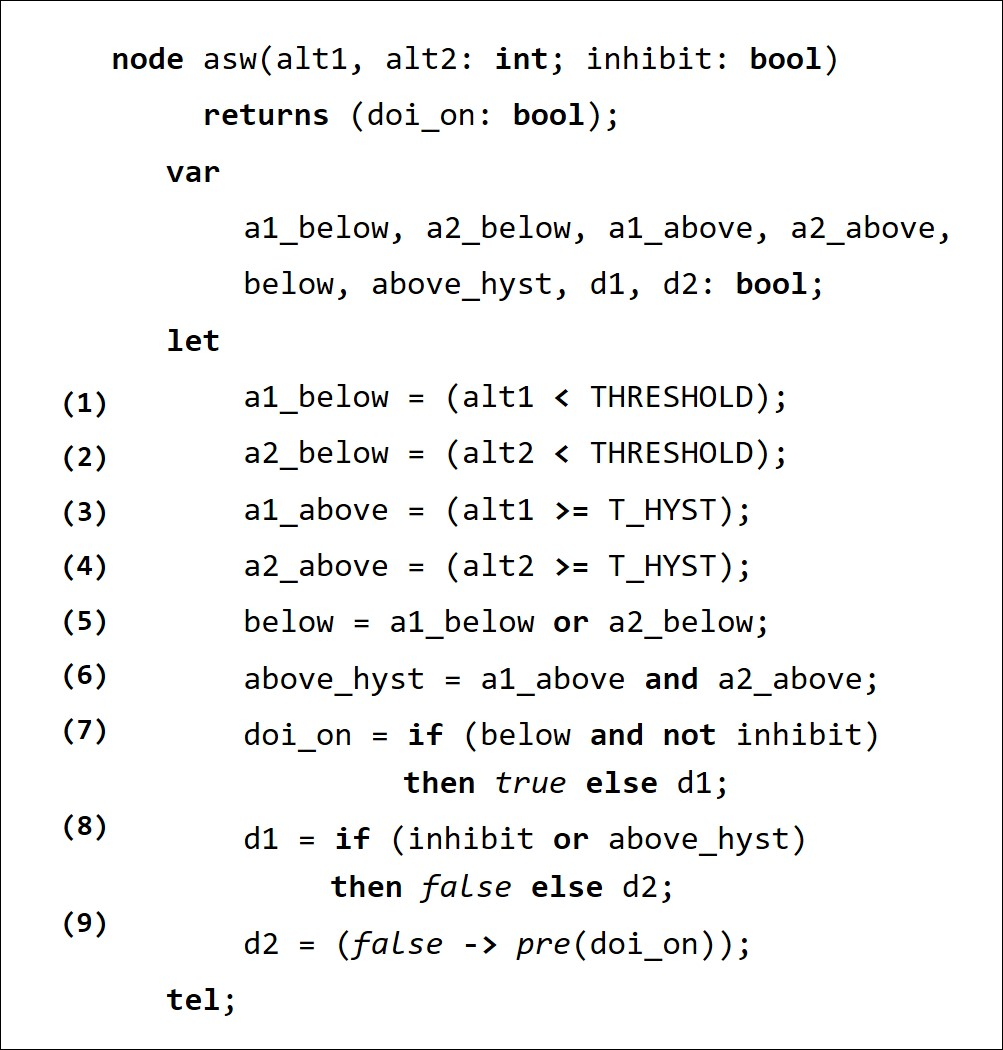
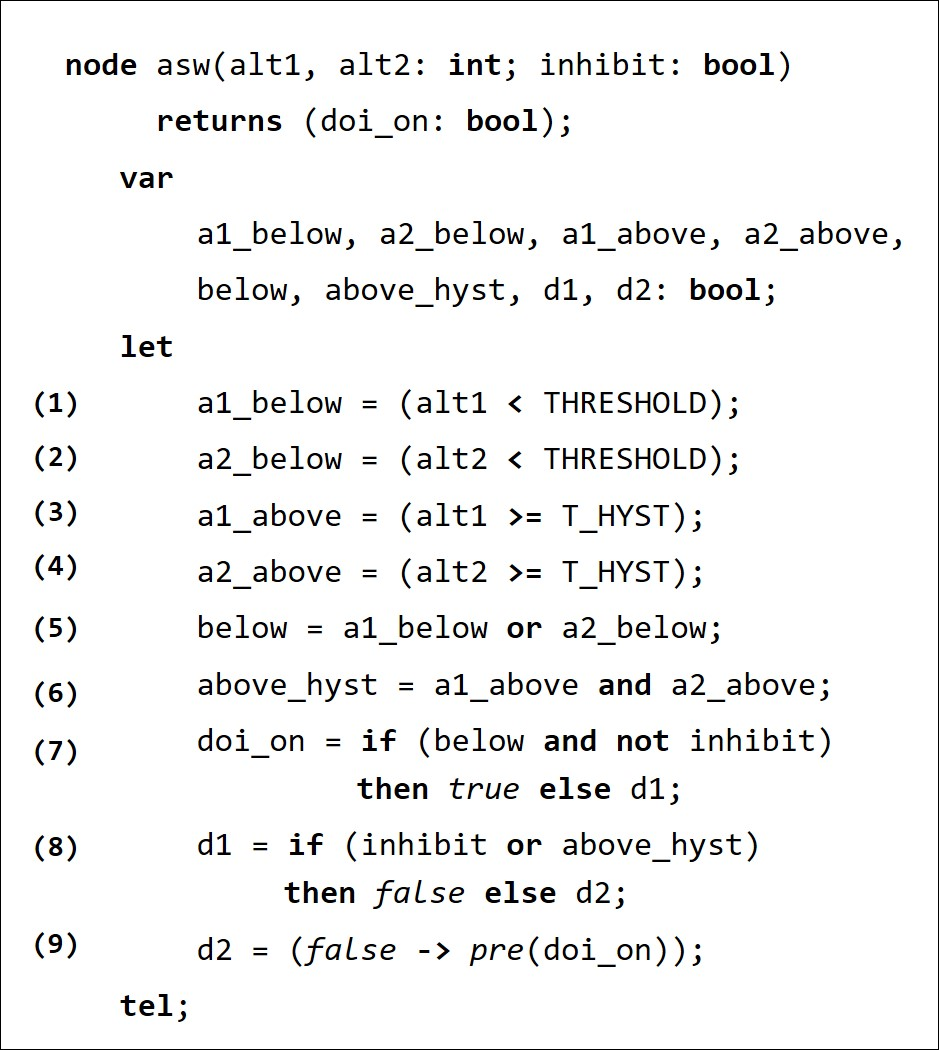
edit pics

diff --git a/completeness/completeness_TEX/example.tex b/completeness/completeness_TEX/example.tex
@@ -11,35 +11,14 @@
 %\end{figure*}
 
 %% We put the image here so it shows up side-by-side with fig:ex-after
-\begin{figure}[t]
+\begin{figure}
 \centering
-\includegraphics[width=0.8\columnwidth]{figs/code.jpg}
-%{\smaller
-%\begin{verbatim}
-%node asw(alt1, alt2: int; inhibit: bool)
-%        returns (doi_on: bool);
-%var
-%   a1_below, a2_below, a1_above, a2_above,
-%   below, above_hyst, d1, d2: bool;
-%let
-%   a1_below = (alt1 < THRESHOLD);        // (1)
-%   a2_below = (alt2 < THRESHOLD);        // (2)
-%   a1_above = (alt1 >= T_HYST);          // (3)
-%   a2_above = (alt2 >= T_HYST);          // (4)
-%   below = a1_below or a2_below;         // (5)
-%   above_hyst = a1_above and a2_above;   // (6)
-%   doi_on = if (below and not inhibit)   // (7)
-%        then true else d1;
-%   d1 = if (inhibit or above_hyst)       // (8)
-%         then false else d2;
-%   d2 = (false -> pre(doi_on));          // (9)
-%tel;
-%\end{verbatim}
-%}
+\includegraphics[width=0.85\columnwidth]{figs/code.jpg}
 \vspace{-0.1in}
 \caption{Altitude Switch Model}
 \label{fig:asw}
 \end{figure}
+
 
 We will use a very simple system from the avionics domain to illustrate our approach. An Altitude Switch (ASW) is a hypothetical device that turns power on to another subsystem, the Device of Interest (DOI), when the aircraft descends below a threshold altitude and turns the power off again after we ascend over the threshold plus some hysteresis factor.  An implementation of an ASW containing two altimeters written in the Lustre language (simplified and adapted from~\cite{HCW02:ase-deviation}) is shown in Fig.~\ref{fig:asw}.  If the system is not ``inhibited'' by the user and either altimeter is below the constant THRESHOLD, then it turns on the DOI; else, if the system is inhibited or both altimeters are above the threshold plus the hysteresis factor (THRESHOLD + HYST), then the DOI is turned off, and if neither condition holds, then in the initial computation it is false and thereafter retains its previous value.  The notation \texttt{(false -> pre(doi\_on))} in equation (9) describes an initialized register in Lustre: in the initial state, the expression is \texttt{false}, and thereafter it is the previous value of \texttt{doi\_on}.  In the remainder of the paper, we will use this model to illustrate aspects of requirements completeness.  %Section \ref{sec:illust}.
 
